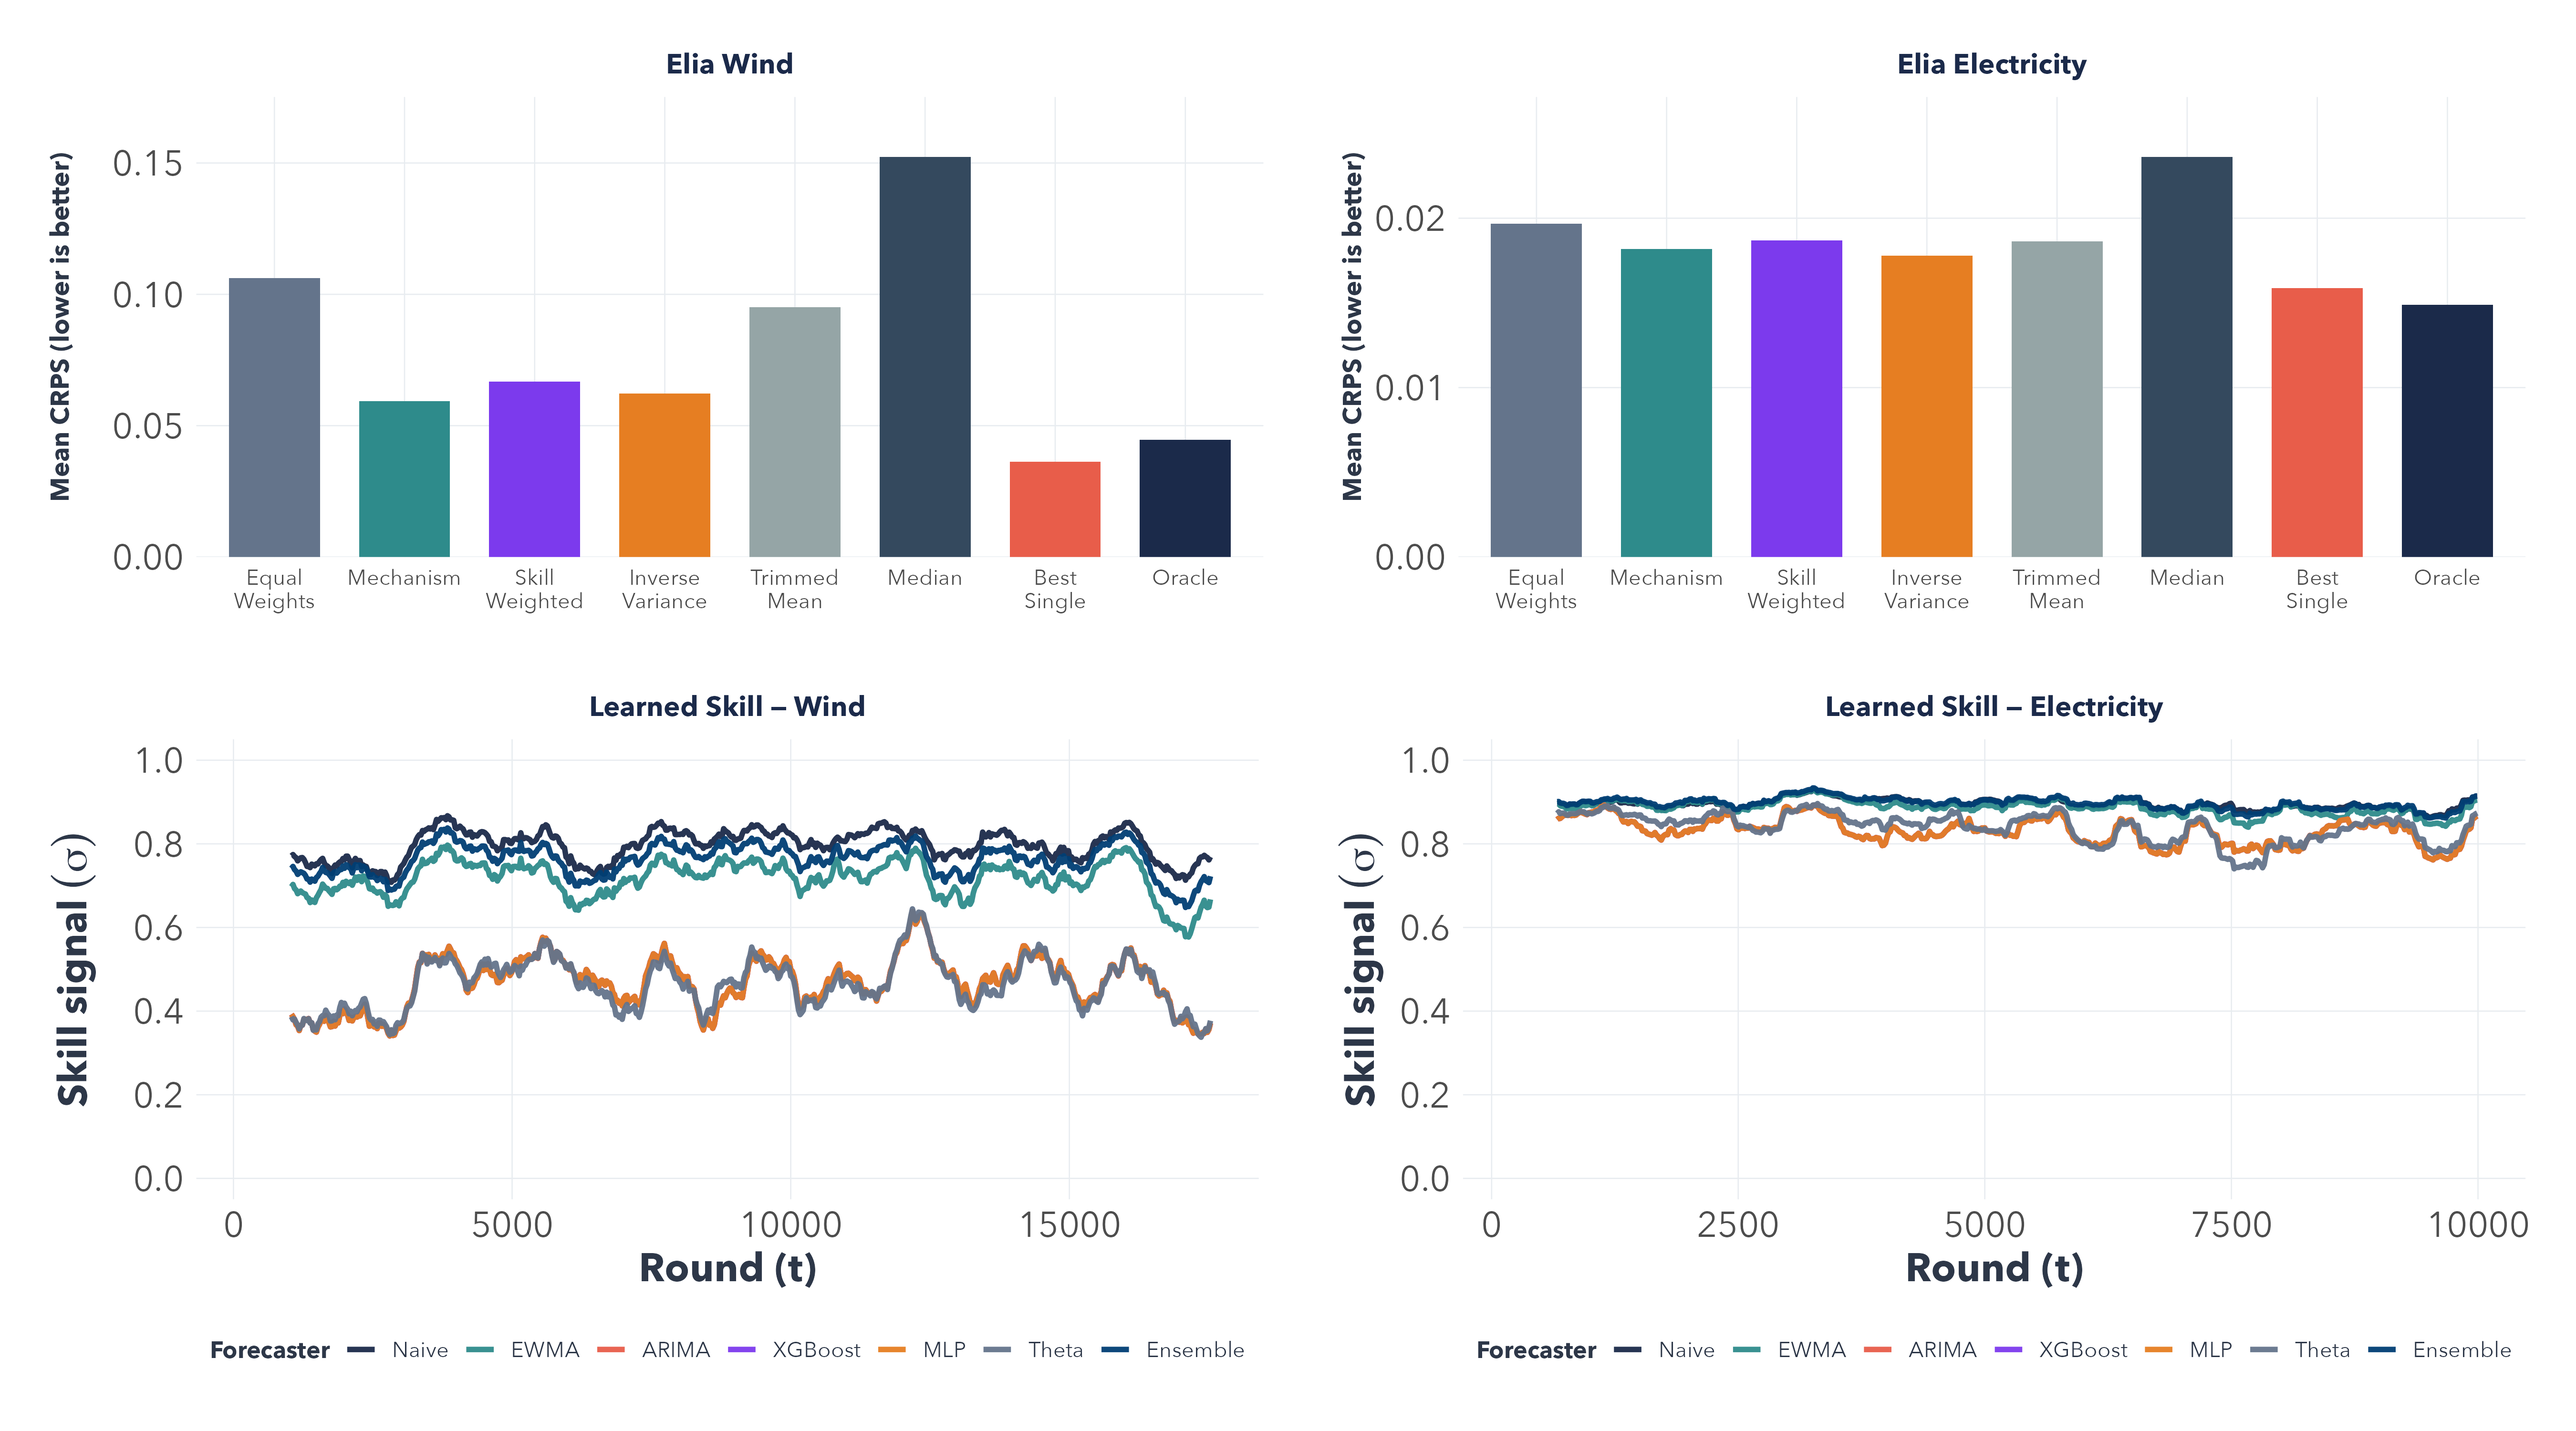
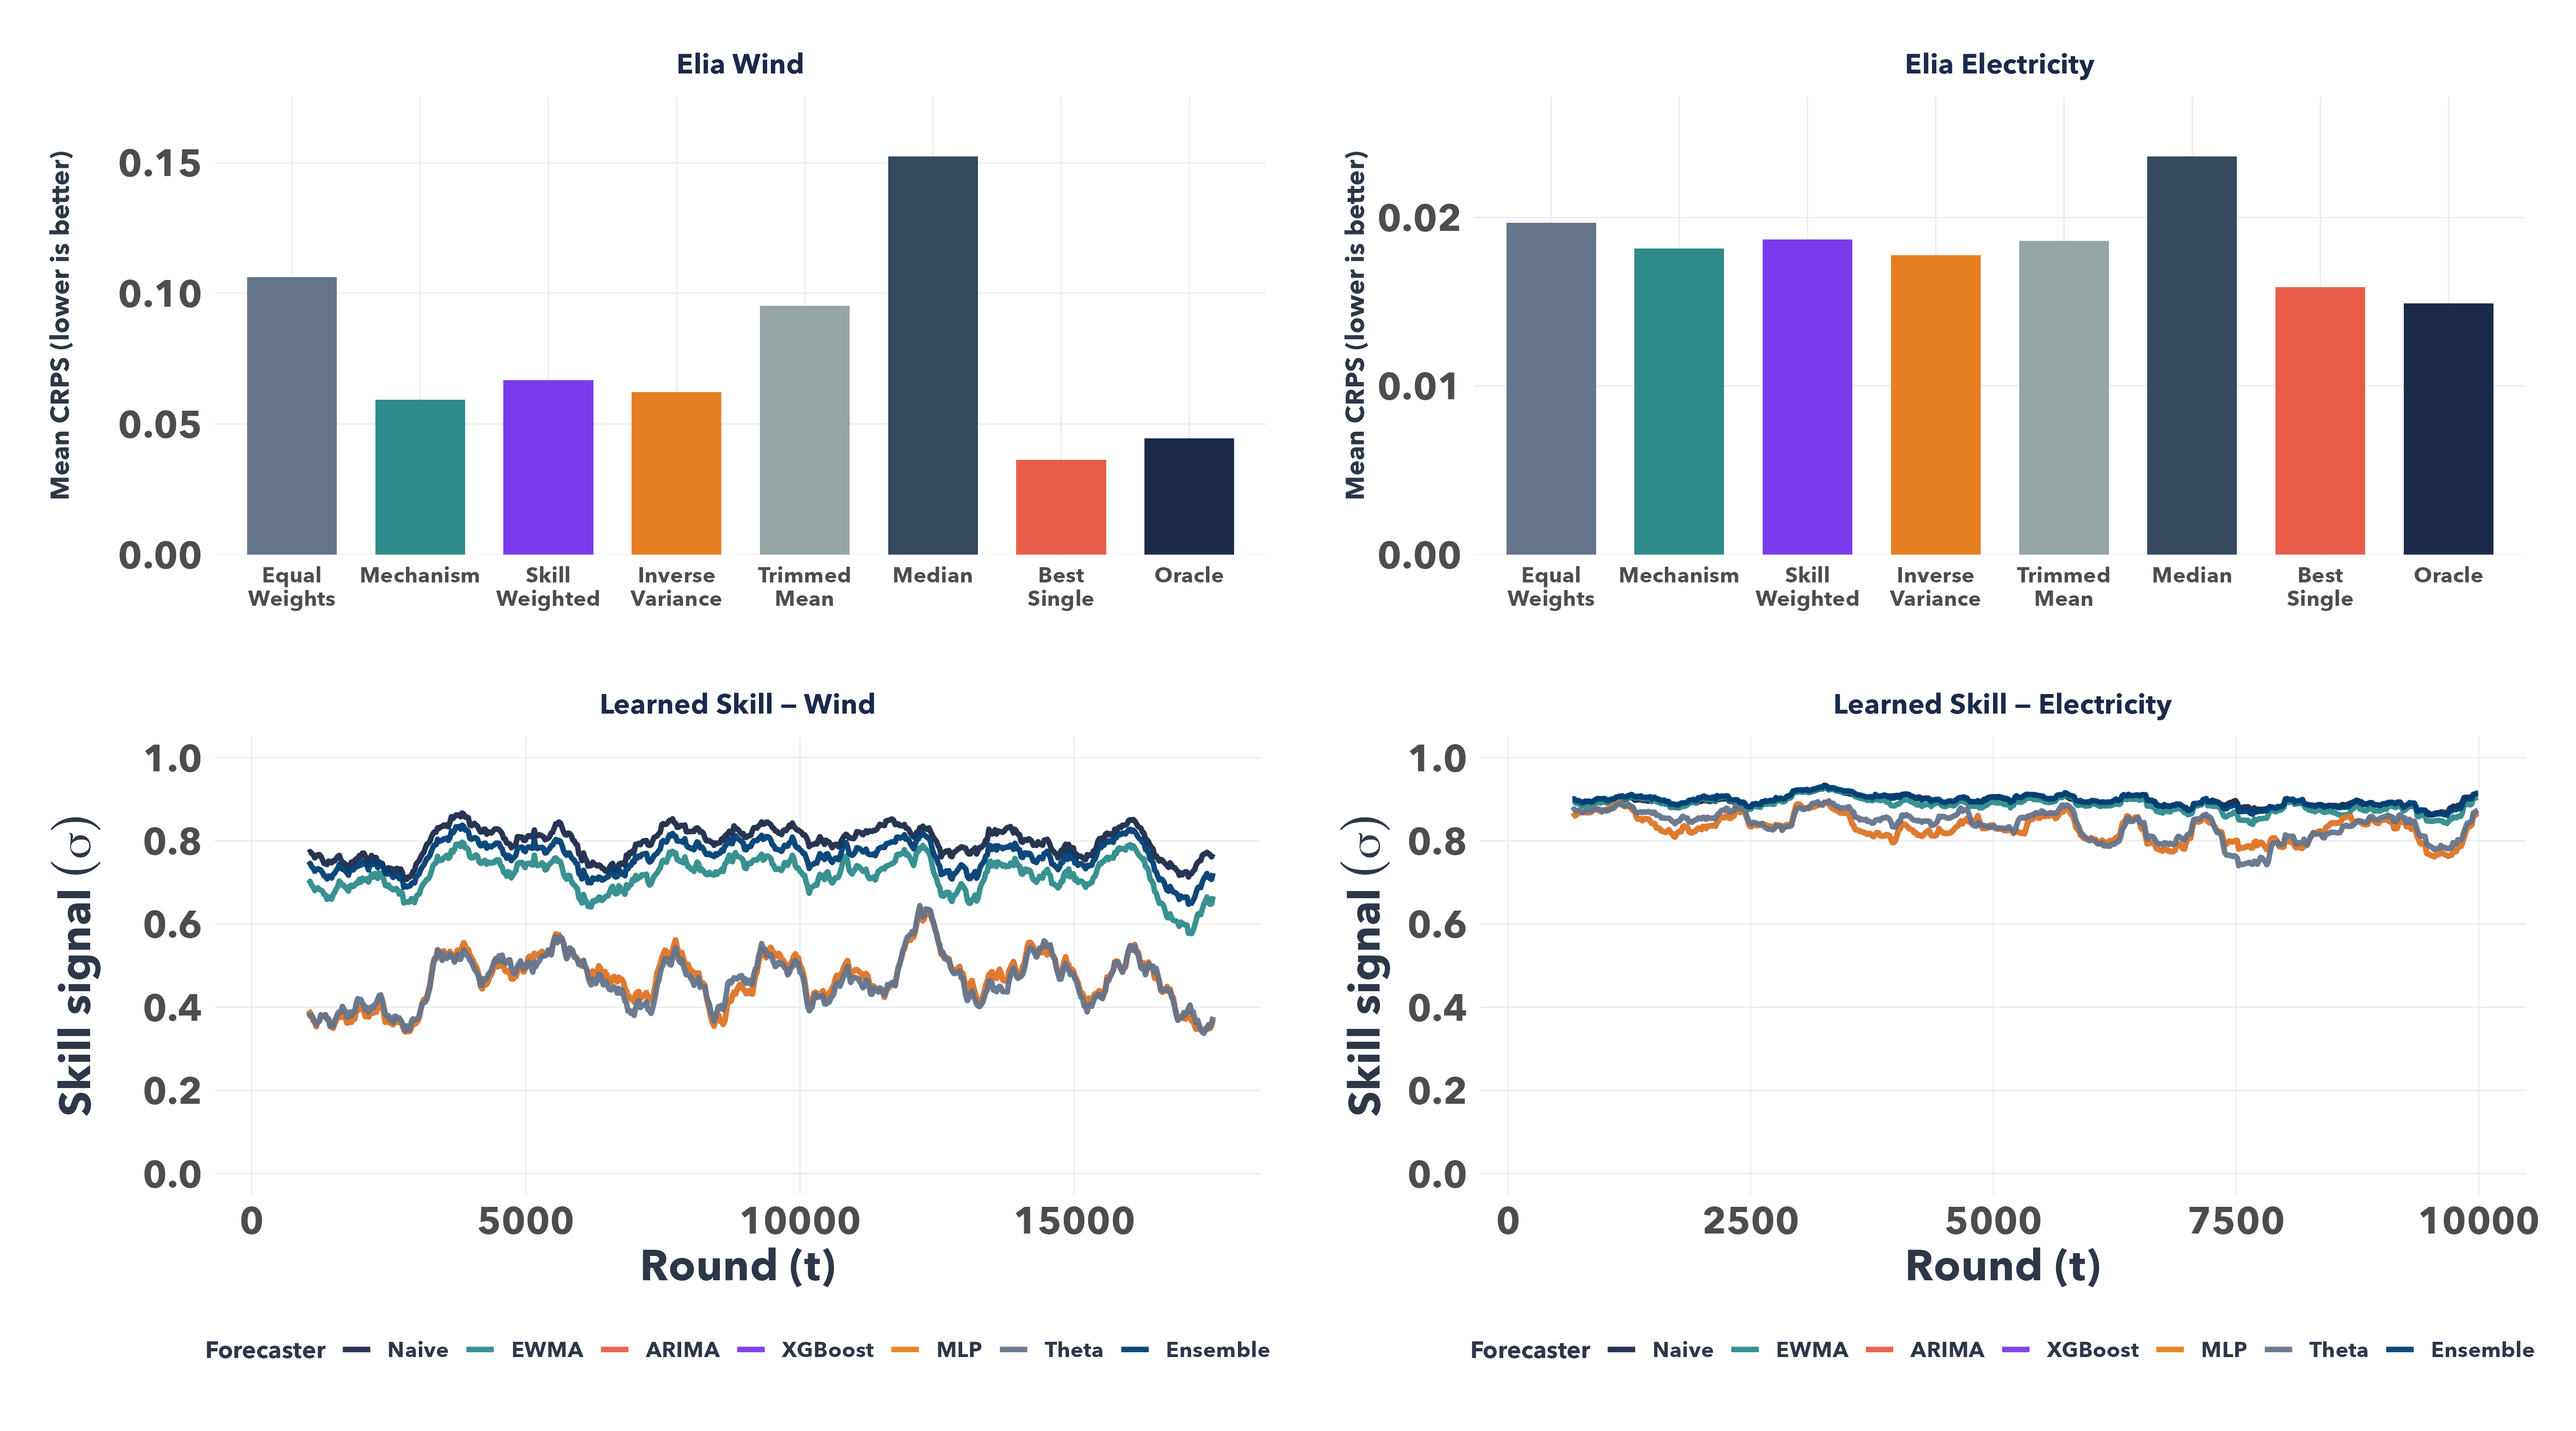
fix: widen participant boxes, bold graph text, fix THIS PROJECT overlap, disable chart animation
- TheoryFlowSlide: pBoxW 200→220, viewBox 1040, shifted agg+output boxes
- PositioningMatrix: glow offset 5→8, cardH 100→110, text spacing adjusted
- R theme: axis title 22pt bold, axis text 19pt bold, legend 18pt bold
- ContributionsChart: Tooltip isAnimationActive=false
- Regenerated all 9 R PNGs with bold text

diff --git a/dashboard/src/components/slides/PositioningMatrixSlide.tsx b/dashboard/src/components/slides/PositioningMatrixSlide.tsx
@@ -31,7 +31,7 @@ export default function PositioningMatrixSlide() {
   const midX = chartX + chartW / 2;
   const midY = chartY + chartH / 2;
   const cardW = 280;
-  const cardH = 100;
+  const cardH = 110;
 
   // Helper: get card center position
   function getCardCenter(node: MatrixNode) {
@@ -147,8 +147,8 @@ export default function PositioningMatrixSlide() {
             <g key={node.id}>
               {node.isThesis && (
                 <rect
-                  x={cx - cardW / 2 - 5} y={cy - cardH / 2 - 5}
-                  width={cardW + 10} height={cardH + 10}
+                  x={cx - cardW / 2 - 8} y={cy - cardH / 2 - 8}
+                  width={cardW + 16} height={cardH + 16}
                   rx={18}
                   fill="none"
                   stroke={PALETTE.teal}

diff --git a/dashboard/src/components/slides/TheoryFlowSlide.tsx b/dashboard/src/components/slides/TheoryFlowSlide.tsx
@@ -22,16 +22,16 @@ export default function TheoryFlowSlide() {
 
   // Layout constants
   const pBoxX = 30;
-  const pBoxW = 200;
+  const pBoxW = 220;
   const pBoxH = 80;
   const iconSize = 18;
 
-  const aggX = 420;
+  const aggX = 440;
   const aggW = 200;
   const aggH = 120;
   const aggCenterY = 260;
 
-  const outX = 780;
+  const outX = 810;
   const outW = 180;
   const outH = 100;
 
@@ -52,7 +52,7 @@ export default function TheoryFlowSlide() {
       }}
     >
       <svg
-        viewBox="0 0 1000 540"
+        viewBox="0 0 1040 540"
         style={{ width: '100%', height: '100%' }}
         xmlns="http://www.w3.org/2000/svg"
         role="img"

diff --git a/dashboard/src/components/slides/ContributionsChartSlide.tsx b/dashboard/src/components/slides/ContributionsChartSlide.tsx
@@ -261,6 +261,7 @@ export default function ContributionsChartSlide() {
                 stroke={PALETTE.slate}
               />
               <Tooltip
+                isAnimationActive={false}
                 contentStyle={{
                   fontFamily: TYPOGRAPHY.fontFamily,
                   fontSize: 13,
